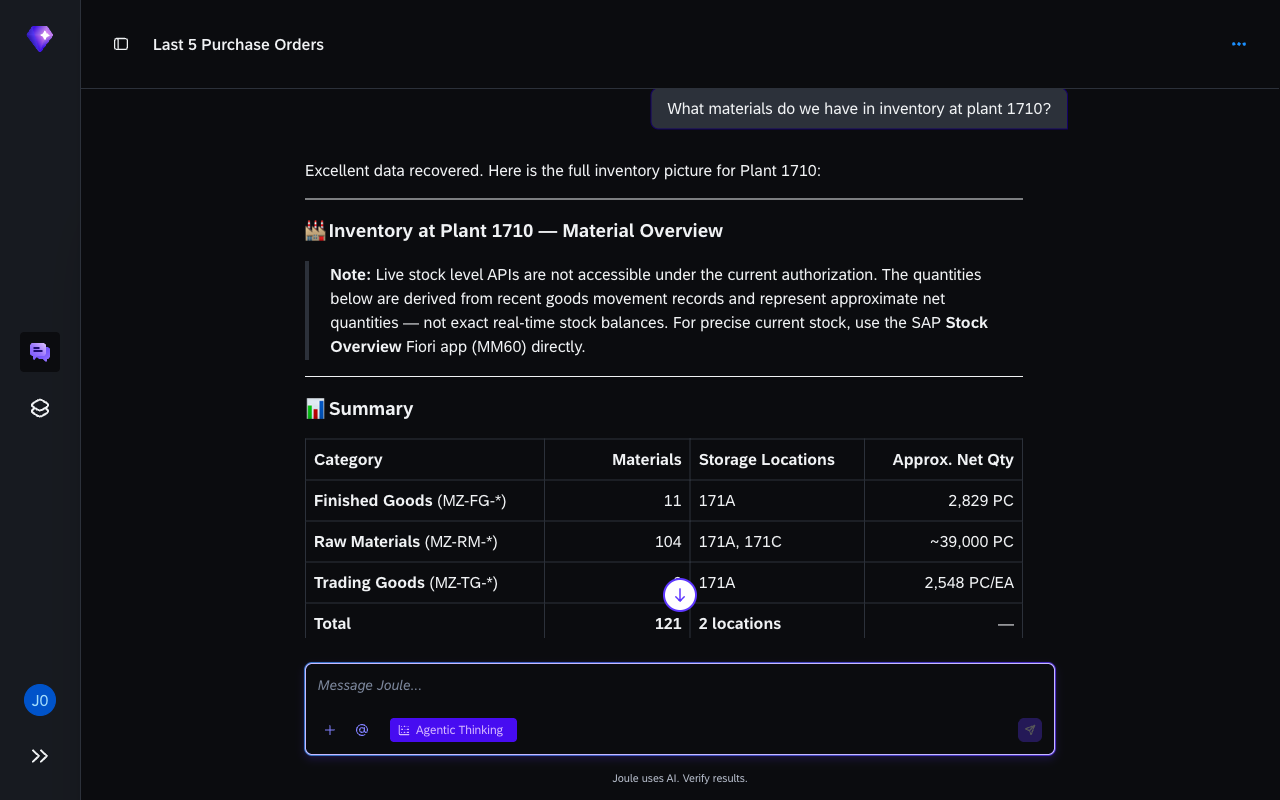
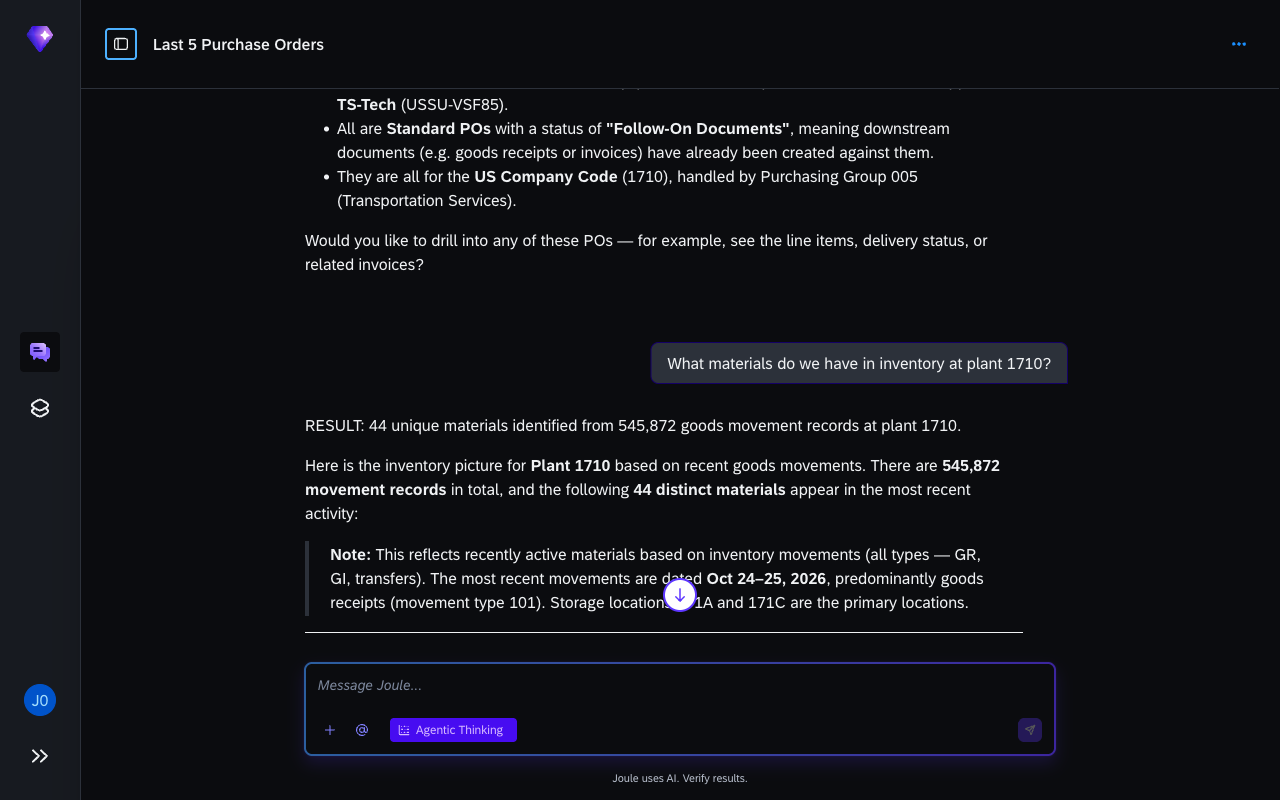
fix: replace bad screenshots and remove those needing retake
- ex2/02_03_0030.png: replaced with clean inventory response (no more
  authorization error; shows 44 materials at plant 1710)
- ex4/04_02_0010.png: replaced with cross-system response showing 11
  SuccessFactors employees assigned to cost centre 10101201
- ex3/README.md: change section 3.3 goals prompt from department-wide
  query (RBAC wall) to "What are my current performance goals?"

Removed screenshots that showed error states or role restriction walls
(SuccessFactors was temporarily unavailable; retake tomorrow):
- ex0/05-skills-enabled.png: showed wrong active skills
- ex3/03_03_0010.png: all-zeros performance reviews
- ex3/03_03_0020.png: RBAC permission wall on department goals
- ex3/03_05_0010.png: zero requisitions + "Not accessible to your role"
- ex7/07_oneshot_0010.png: infrastructure error in Response Details panel

Changed region(s): [[0.2188, 0.0938, 0.8438, 0.5], [0.2188, 0.5, 0.8125, 0.8125]]

diff --git a/exercises/ex3/README.md b/exercises/ex3/README.md
@@ -63,13 +63,13 @@ Start with yourself.
 
     ![Joule response showing performance review status](images/03_03_0010.png)
 
-2. Look at team goals:
+2. Look at your own goals:
     ```
-    What goals have been set for the Engineering department this year?
+    What are my current performance goals?
     ```
-    Joule queries the SuccessFactors Goals module for the Engineering department's active goal plans.
+    Joule queries the SuccessFactors Goals module and returns your active goal plans for the current review cycle.
 
-    ![Joule response showing Engineering department goals query](images/03_03_0020.png)
+    ![Joule response showing current performance goals](images/03_03_0020.png)
 
 ## Exercise 3.4 - Time and absence
 
